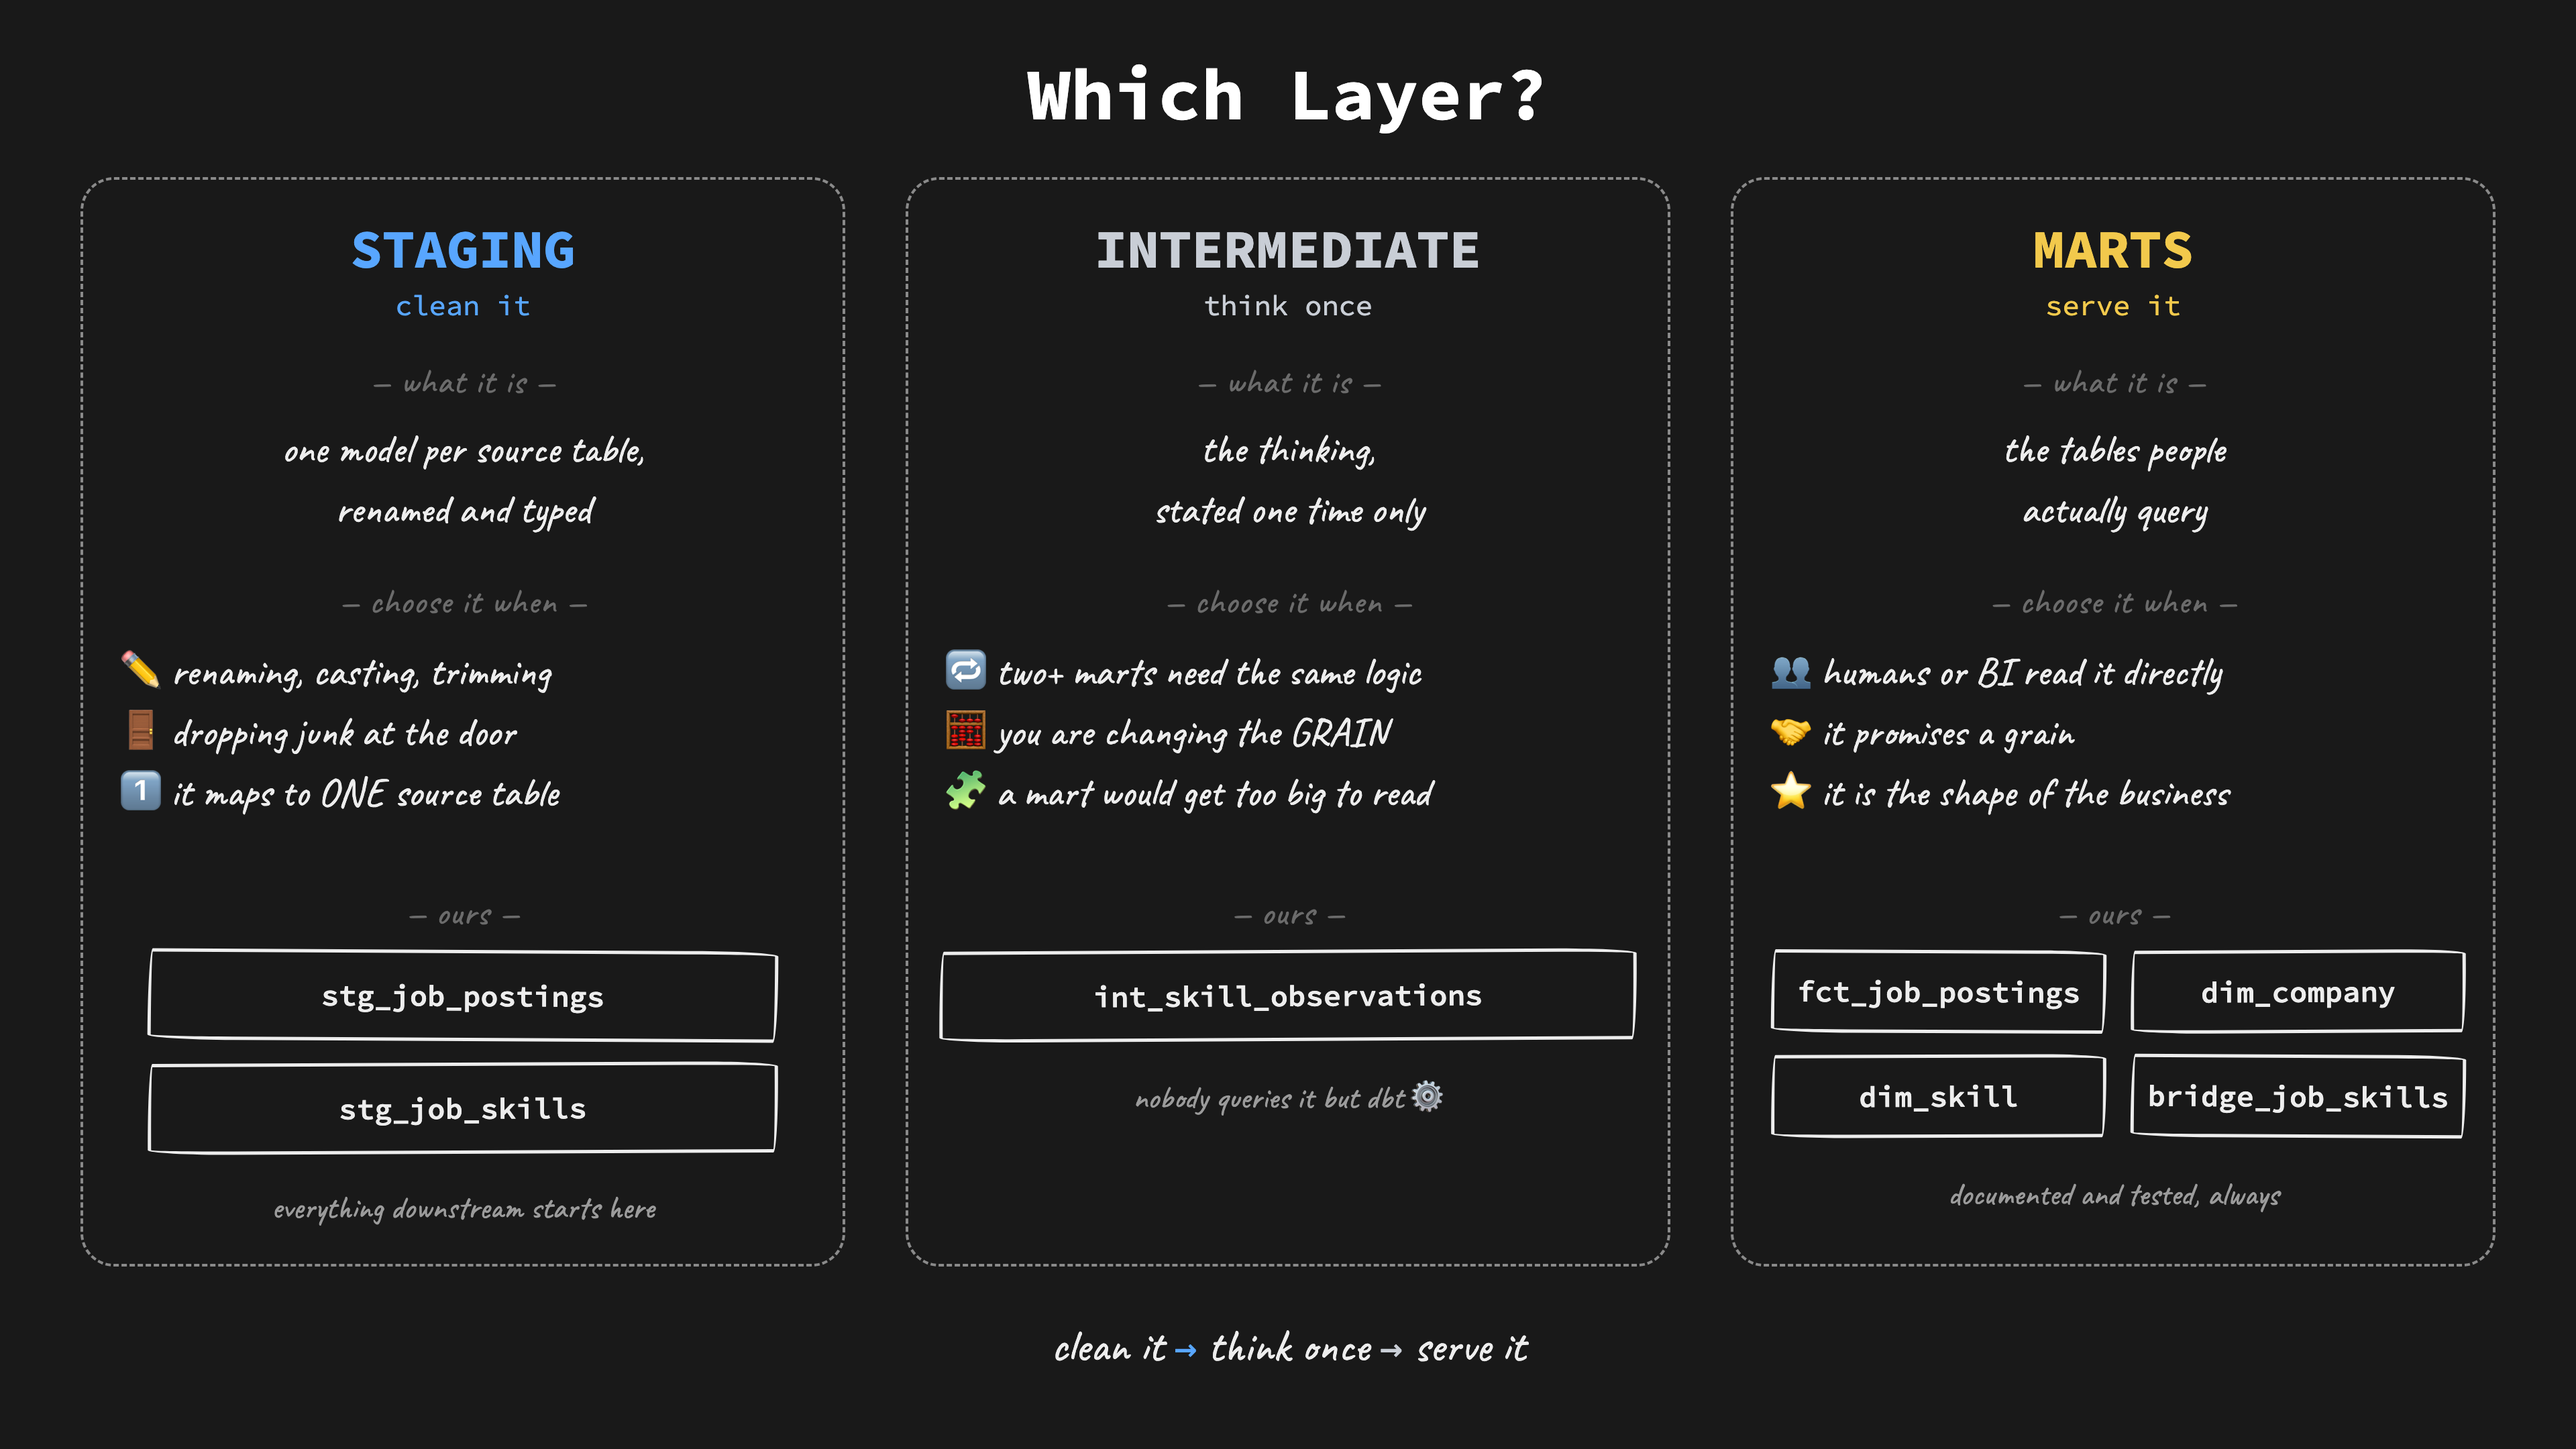
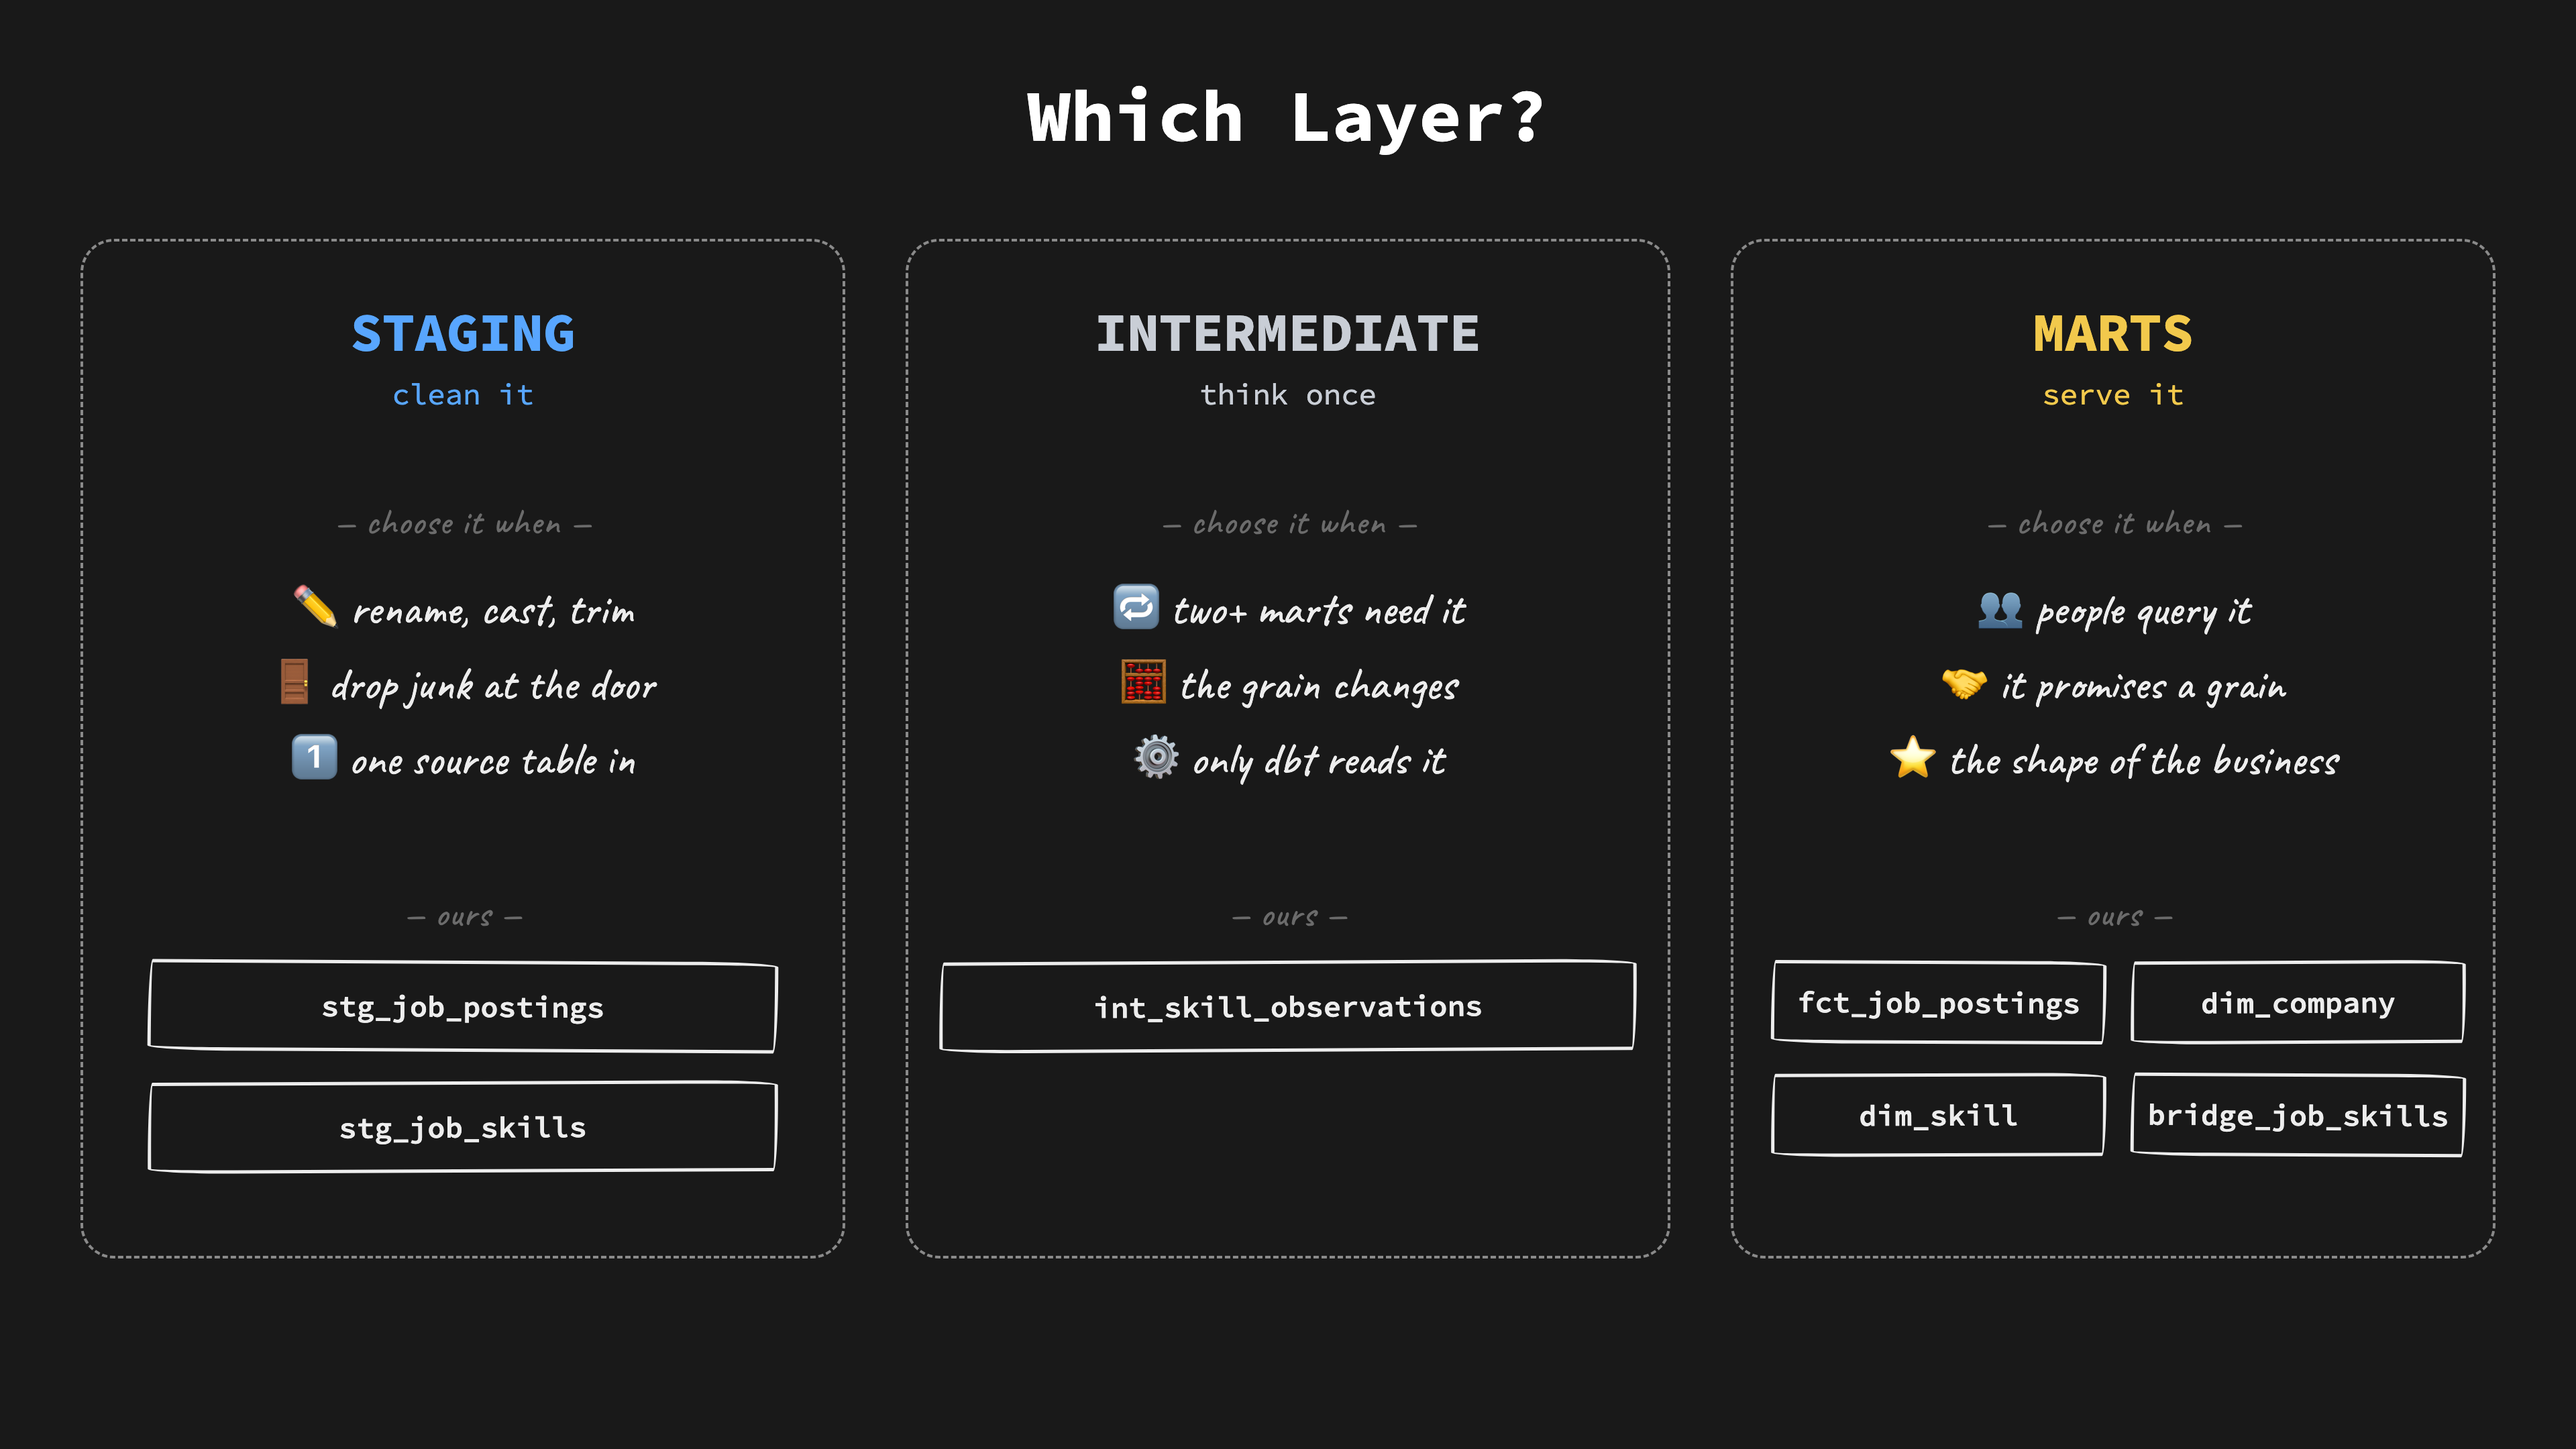
3.07_which_layer v2 (Luke): far fewer words, one merged section, consistent centering, no bottom text
His critique: the what-it-is and choose-it-when sections said the same thing twice, one was centered and one left-aligned which looked off, and the per-zone footers plus the bottom mantra line were unnecessary. Now each zone is title, job word, one choose-it-when list of 3-5 word bullets, and its models. Everything centered, matching who_reads_it. All bottom text removed.

diff --git a/resources/diagrams/3.07_which_layer.html b/resources/diagrams/3.07_which_layer.html
@@ -16,18 +16,16 @@
   }
   html,body{margin:0;padding:0;background:var(--bg)}
   .stage{position:relative;width:1920px;height:1080px;overflow:hidden;font-family:var(--hand);color:var(--ink);background:var(--bg)}
-  .mono{font-family:var(--mono)}
-  .title{position:absolute;top:36px;left:0;width:1920px;font-family:var(--mono);font-size:54px;font-weight:700;color:#FFFFFF;text-align:center}
+  .title{position:absolute;top:52px;left:0;width:1920px;font-family:var(--mono);font-size:54px;font-weight:700;color:#FFFFFF;text-align:center}
   .zone{position:absolute;box-sizing:border-box;border:2px dashed #8a8a8a;border-radius:25px}
   .ztitle{position:absolute;font-family:var(--mono);font-size:40px;font-weight:700;text-align:center}
+  .job{position:absolute;font-family:var(--mono);font-size:22px;text-align:center}
   .chip{position:absolute;box-sizing:border-box;border:2.5px solid var(--ink);
     border-radius:15px 225px 15px 255px/255px 15px 225px 15px;
     display:flex;align-items:center;justify-content:center;
     font-family:var(--mono);font-size:22px;font-weight:600;color:var(--ink)}
-  .lbl{position:absolute;font-family:var(--hand);font-size:30px;color:var(--ink);text-align:center;line-height:1.5}
-  .small{font-size:24px;color:var(--muted)}
-  .sect{position:absolute;font-family:var(--hand);font-size:26px;color:var(--faint);text-align:center;letter-spacing:.03em}
-  .rule{position:absolute;font-family:var(--hand);font-size:34px;text-align:center;width:1920px;left:0}
+  .lbl{position:absolute;font-family:var(--hand);font-size:34px;color:var(--ink);text-align:center;line-height:1.65}
+  .sect{position:absolute;font-family:var(--hand);font-size:27px;color:var(--faint);text-align:center;letter-spacing:.03em}
 </style>
 </head>
 <body>
@@ -36,55 +34,41 @@
   <div class="title">Which Layer?</div>
 
   <!-- ============ STAGING ============ -->
-  <div class="zone" style="left:60px;top:132px;width:570px;height:812px"></div>
-  <div class="ztitle" style="left:60px;top:160px;width:570px;color:var(--blue)">STAGING</div>
-  <div class="lbl small" style="left:60px;top:212px;width:570px;font-family:var(--mono);font-size:21px;color:var(--blue)">clean it</div>
+  <div class="zone" style="left:60px;top:178px;width:570px;height:760px"></div>
+  <div class="ztitle" style="left:60px;top:222px;width:570px;color:var(--blue)">STAGING</div>
+  <div class="job" style="left:60px;top:280px;width:570px;color:var(--blue)">clean it</div>
 
-  <div class="sect" style="left:60px;top:268px;width:570px">— what it is —</div>
-  <div class="lbl" style="left:90px;top:312px;width:510px">one model per source table,<br>renamed and typed</div>
-
-  <div class="sect" style="left:60px;top:432px;width:570px">— choose it when —</div>
-  <div class="lbl" style="left:90px;top:478px;width:510px;text-align:left">✏ renaming, casting, trimming<br>🚪 dropping junk at the door<br>1⃣ it maps to ONE source table</div>
+  <div class="sect" style="left:60px;top:372px;width:570px">— choose it when —</div>
+  <div class="lbl" style="left:80px;top:426px;width:530px">✏ rename, cast, trim<br>🚪 drop junk at the door<br>1⃣ one source table in</div>
 
   <div class="sect" style="left:60px;top:664px;width:570px">— ours —</div>
-  <div class="chip" style="left:110px;top:708px;width:470px;height:68px;transform:rotate(.3deg)">stg_job_postings</div>
-  <div class="chip" style="left:110px;top:792px;width:470px;height:68px;transform:rotate(-.25deg)">stg_job_skills</div>
-  <div class="lbl small" style="left:60px;top:882px;width:570px">everything downstream starts here</div>
+  <div class="chip" style="left:110px;top:716px;width:470px;height:68px;transform:rotate(.3deg)">stg_job_postings</div>
+  <div class="chip" style="left:110px;top:806px;width:470px;height:68px;transform:rotate(-.25deg)">stg_job_skills</div>
 
   <!-- ============ INTERMEDIATE ============ -->
-  <div class="zone" style="left:675px;top:132px;width:570px;height:812px"></div>
-  <div class="ztitle" style="left:675px;top:160px;width:570px;color:var(--silver)">INTERMEDIATE</div>
-  <div class="lbl small" style="left:675px;top:212px;width:570px;font-family:var(--mono);font-size:21px;color:var(--silver)">think once</div>
+  <div class="zone" style="left:675px;top:178px;width:570px;height:760px"></div>
+  <div class="ztitle" style="left:675px;top:222px;width:570px;color:var(--silver)">INTERMEDIATE</div>
+  <div class="job" style="left:675px;top:280px;width:570px;color:var(--silver)">think once</div>
 
-  <div class="sect" style="left:675px;top:268px;width:570px">— what it is —</div>
-  <div class="lbl" style="left:705px;top:312px;width:510px">the thinking,<br>stated one time only</div>
-
-  <div class="sect" style="left:675px;top:432px;width:570px">— choose it when —</div>
-  <div class="lbl" style="left:705px;top:478px;width:510px;text-align:left">🔁 two+ marts need the same logic<br>🧮 you are changing the GRAIN<br>🧩 a mart would get too big to read</div>
+  <div class="sect" style="left:675px;top:372px;width:570px">— choose it when —</div>
+  <div class="lbl" style="left:695px;top:426px;width:530px">🔁 two+ marts need it<br>🧮 the grain changes<br>⚙ only dbt reads it</div>
 
   <div class="sect" style="left:675px;top:664px;width:570px">— ours —</div>
-  <div class="chip" style="left:700px;top:708px;width:520px;height:68px;transform:rotate(-.3deg)">int_skill_observations</div>
-  <div class="lbl small" style="left:675px;top:800px;width:570px">nobody queries it but dbt ⚙</div>
+  <div class="chip" style="left:700px;top:716px;width:520px;height:68px;transform:rotate(-.3deg)">int_skill_observations</div>
 
   <!-- ============ MARTS ============ -->
-  <div class="zone" style="left:1290px;top:132px;width:570px;height:812px"></div>
-  <div class="ztitle" style="left:1290px;top:160px;width:570px;color:var(--duck)">MARTS</div>
-  <div class="lbl small" style="left:1290px;top:212px;width:570px;font-family:var(--mono);font-size:21px;color:var(--duck)">serve it</div>
+  <div class="zone" style="left:1290px;top:178px;width:570px;height:760px"></div>
+  <div class="ztitle" style="left:1290px;top:222px;width:570px;color:var(--duck)">MARTS</div>
+  <div class="job" style="left:1290px;top:280px;width:570px;color:var(--duck)">serve it</div>
 
-  <div class="sect" style="left:1290px;top:268px;width:570px">— what it is —</div>
-  <div class="lbl" style="left:1320px;top:312px;width:510px">the tables people<br>actually query</div>
-
-  <div class="sect" style="left:1290px;top:432px;width:570px">— choose it when —</div>
-  <div class="lbl" style="left:1320px;top:478px;width:510px;text-align:left">👥 humans or BI read it directly<br>🤝 it promises a grain<br>⭐ it is the shape of the business</div>
+  <div class="sect" style="left:1290px;top:372px;width:570px">— choose it when —</div>
+  <div class="lbl" style="left:1310px;top:426px;width:530px">👥 people query it<br>🤝 it promises a grain<br>⭐ the shape of the business</div>
 
   <div class="sect" style="left:1290px;top:664px;width:570px">— ours —</div>
-  <div class="chip" style="left:1320px;top:708px;width:250px;height:62px;transform:rotate(.25deg)">fct_job_postings</div>
-  <div class="chip" style="left:1588px;top:708px;width:250px;height:62px;transform:rotate(-.3deg)">dim_company</div>
-  <div class="chip" style="left:1320px;top:786px;width:250px;height:62px;transform:rotate(-.2deg)">dim_skill</div>
-  <div class="chip" style="left:1588px;top:786px;width:250px;height:62px;transform:rotate(.3deg)">bridge_job_skills</div>
-  <div class="lbl small" style="left:1290px;top:872px;width:570px">documented and tested, always</div>
-
-  <div class="rule" style="top:982px">clean it <span class="mono" style="color:var(--blue);font-size:28px">→</span> think once <span class="mono" style="color:var(--silver);font-size:28px">→</span> serve it</div>
+  <div class="chip" style="left:1320px;top:716px;width:250px;height:62px;transform:rotate(.25deg)">fct_job_postings</div>
+  <div class="chip" style="left:1588px;top:716px;width:250px;height:62px;transform:rotate(-.3deg)">dim_company</div>
+  <div class="chip" style="left:1320px;top:800px;width:250px;height:62px;transform:rotate(-.2deg)">dim_skill</div>
+  <div class="chip" style="left:1588px;top:800px;width:250px;height:62px;transform:rotate(.3deg)">bridge_job_skills</div>
 
 </div>
 </body>
